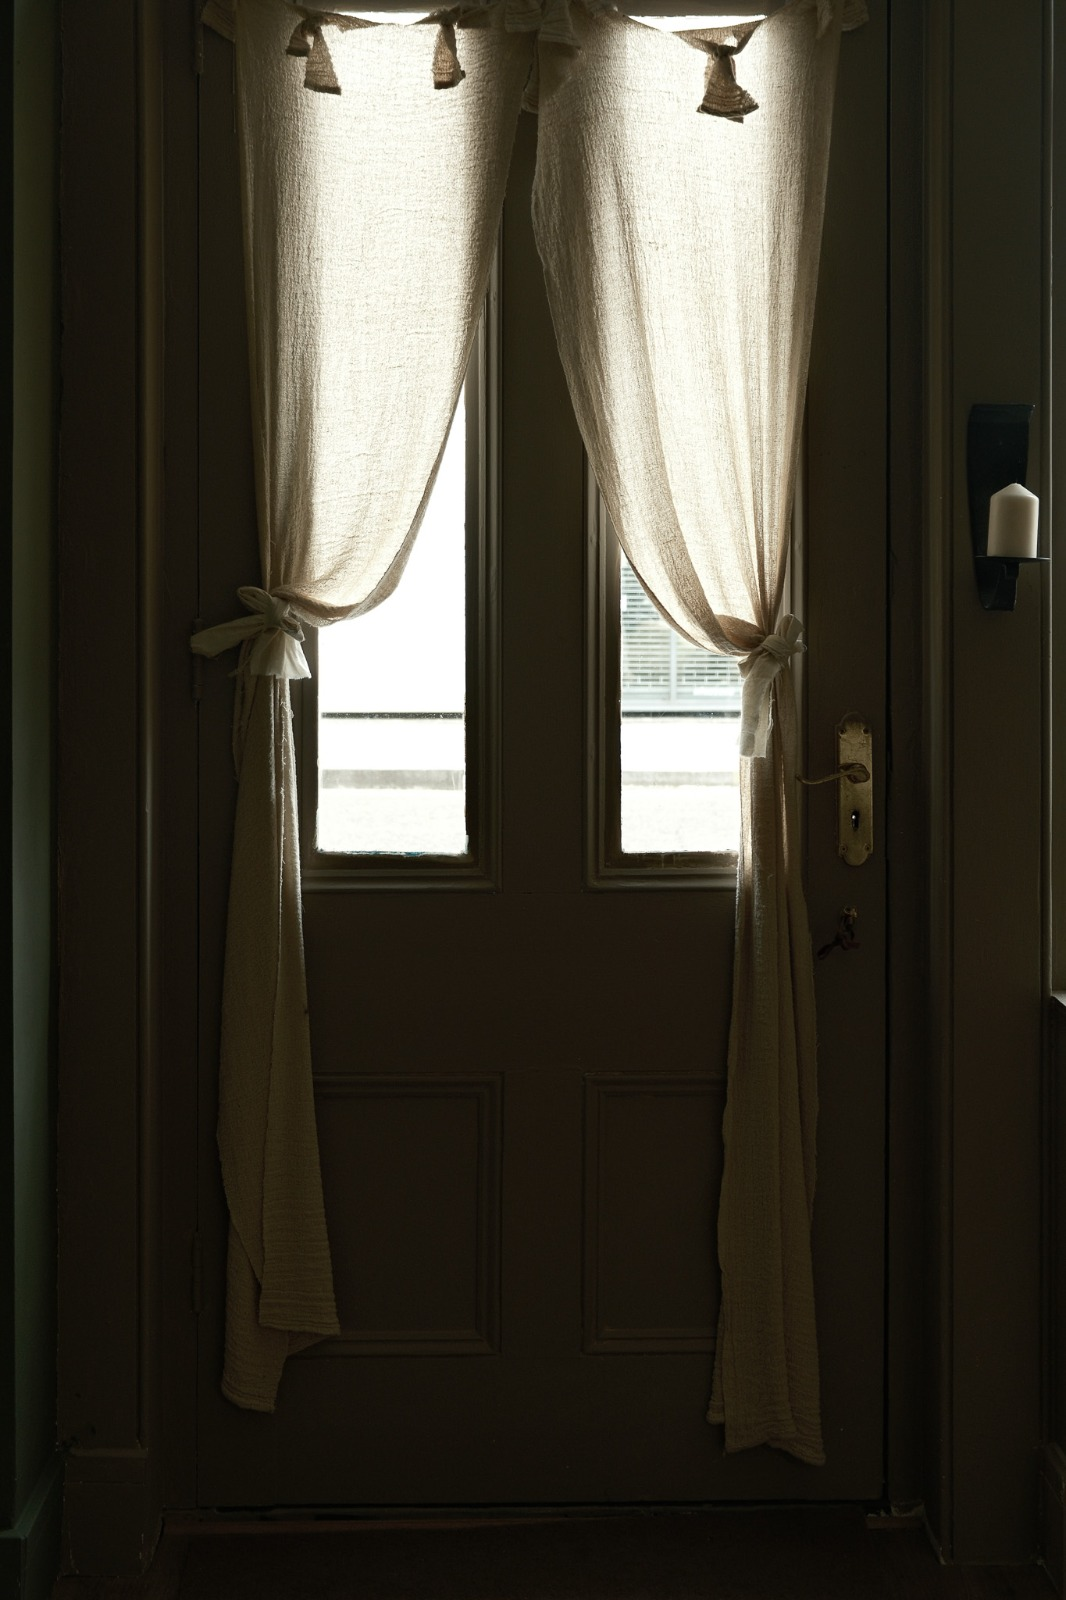
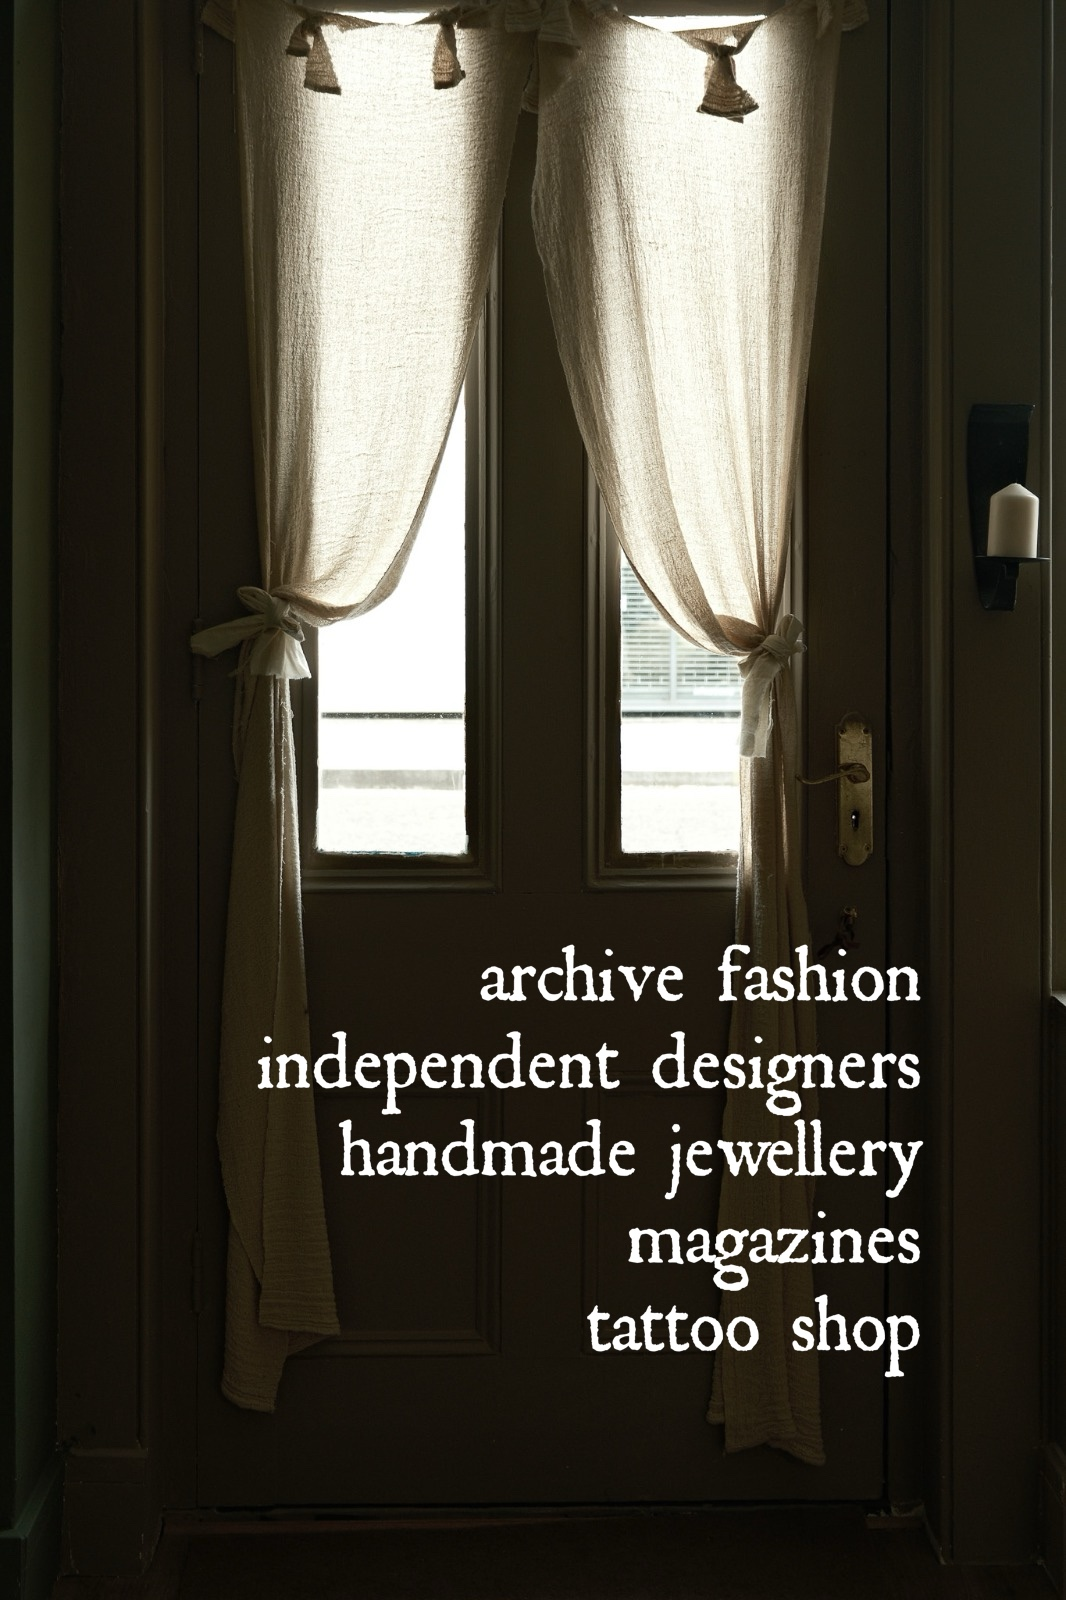
card background fix

Changed region(s): [[0.2477, 0.5938, 0.8668, 0.875]]

diff --git a/index.html b/index.html
@@ -74,11 +74,11 @@
         <div class="col-md-6 d-flex flex-row">
             <div class="card about-me-card" style="width: 100%; border: none;">
                 <div class="headshot-body">
-                    <p>archive fashion</p>
+                    <!-- <p>archive fashion</p>
                     <p>independent designers</p>
                     <p>handmade jewellery</p>
                     <p>magazines</p>
-                    <p>tattoo shop</p>
+                    <p>tattoo shop</p> -->
                 </div>
             </div>
         </div>

diff --git a/css/style.css b/css/style.css
@@ -305,7 +305,7 @@ hr {
 
 /* ----- Contact me ----- */
 .contact-me {
-    background-image: url('../media/images/IMG_5445.JPG');
+    background-image: url('../media/images/IMG_5445.jpg');
     background-size: cover;
     background-repeat: no-repeat;
 }
